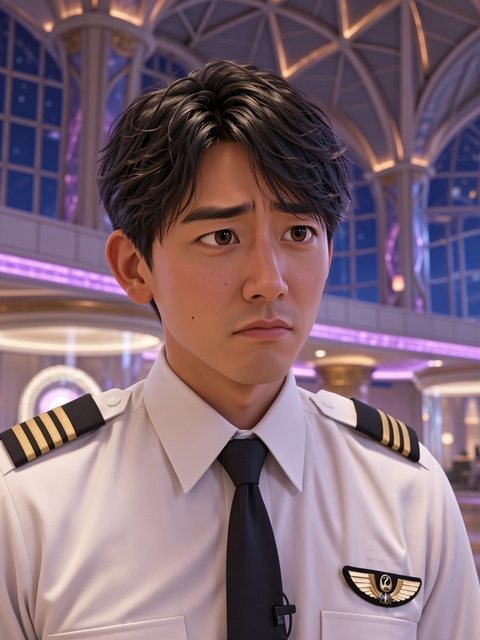
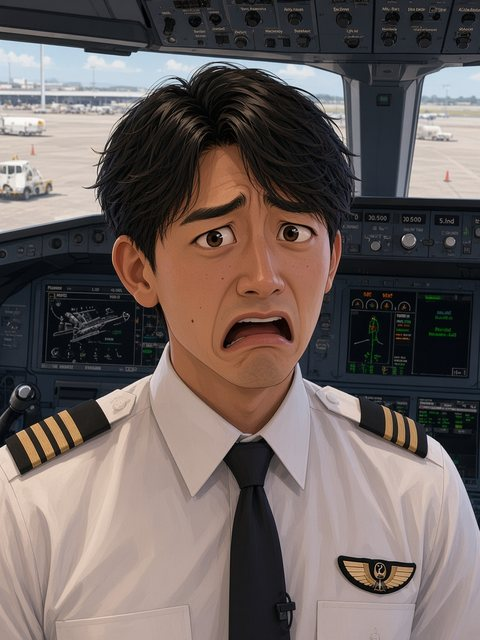
Put the how-to-play text back at the bottom and give the captain bigger cockpit reactions.

diff --git a/index.html b/index.html
@@ -1,5 +1,5 @@
 <!doctype html>
-<html lang="ja"><head><meta charset="utf-8"><meta name="viewport" content="width=device-width,initial-scale=1,maximum-scale=1,user-scalable=no,viewport-fit=cover"><meta name="theme-color" content="#101c27"><title>わたしはマーシャラー</title><link rel="preload" as="image" href="title-marshaller.jpg?v=20261107f"><link rel="stylesheet" href="style.css?v=20261107f"></head>
+<html lang="ja"><head><meta charset="utf-8"><meta name="viewport" content="width=device-width,initial-scale=1,maximum-scale=1,user-scalable=no,viewport-fit=cover"><meta name="theme-color" content="#101c27"><title>わたしはマーシャラー</title><link rel="preload" as="image" href="title-marshaller.jpg?v=20261107g"><link rel="stylesheet" href="style.css?v=20261107g"></head>
 <body>
 <div id="viewport-shell" aria-hidden="true"></div>
 <div id="scene"></div><div class="vignette"></div>
@@ -12,8 +12,8 @@
 <div id="signal-note"><span></span><strong>待機</strong><small>慣性に注意して、ゆっくり誘導</small></div>
 <footer id="controls"><div class="control-caption">機長への誘導信号 <span>押し続けて合図 · 停止は1回で保持</span></div><div class="buttons" role="group" aria-label="誘導信号"><button data-signal="left" aria-label="左へ" aria-pressed="false"><kbd>A / ←</kbd><span>↗</span>左へ<small>機体の左</small></button><button data-signal="forward" aria-label="前進" aria-pressed="false"><kbd>W / ↑</kbd><span>↑↑</span>前進<small>ゆっくり接近</small></button><button data-signal="slow" aria-label="遅らせ" aria-pressed="false"><kbd>S / ↓</kbd><span>↓↓</span>遅らせ<small>速度を落とす</small></button><button data-signal="right" aria-label="右へ" aria-pressed="false"><kbd>D / →</kbd><span>↖</span>右へ<small>機体の右</small></button><button data-signal="stop" aria-label="止まれ" aria-pressed="false" class="stop"><kbd>SPACE</kbd><span>×</span>止まれ<small>停止信号を保持</small></button></div></footer>
 <button id="retry" class="retry-on-scene primary" type="button" hidden>もう一度誘導する <span>↻</span></button>
-<div id="intro" class="overlay title-screen"><img class="title-art" src="title-marshaller.jpg?v=20261107f" alt="滑走路で飛行機を背に、誘導灯を構えて立つマーシャラー"><div class="title-wash" aria-hidden="true"></div><div class="title-head"><div class="eyebrow">地上誘導シミュレーター / 東京国際空港 · 第12スポット</div><h1>わたしは<br><em>マーシャラー</em></h1><p class="intro-sub">その一振りで、空の巨体を止める。</p></div><section class="panel title-panel"><div class="rule-grid"><div><b>01</b><p>機首輪を中心線に合わせる。<small>左右はパイロットから見た方向です。</small></p></div><div><b>02</b><p>A350の停止線を見極める。<small>判定基準は機首輪。機体先端ではありません。</small></p></div><div><b>03</b><p>止まる、少し前に「止まれ」。<small>反応まで0.35秒。重い機体はすぐに止まりません。</small></p></div></div><button id="start" class="primary">誘導を始める <span>→</span></button><p class="fine">キーボード / タッチ対応 · 音声あり · 約1分の訓練</p><div id="load-error" hidden></div></section></div>
+<div id="intro" class="overlay title-screen"><img class="title-art" src="title-marshaller.jpg?v=20261107g" alt="滑走路で飛行機を背に、誘導灯を構えて立つマーシャラー"><div class="title-wash" aria-hidden="true"></div><div class="title-head"><h1>わたしは<br><em>マーシャラー</em></h1></div><section class="panel title-panel"><div class="eyebrow">地上誘導シミュレーター / 東京国際空港 · 第12スポット</div><p class="intro-sub">その一振りで、空の巨体を止める。</p><div class="rule-grid"><div><b>01</b><p>機首輪を中心線に合わせる。<small>左右はパイロットから見た方向です。</small></p></div><div><b>02</b><p>A350の停止線を見極める。<small>判定基準は機首輪。機体先端ではありません。</small></p></div><div><b>03</b><p>止まる、少し前に「止まれ」。<small>反応まで0.35秒。重い機体はすぐに止まりません。</small></p></div></div><button id="start" class="primary">誘導を始める <span>→</span></button><p class="fine">キーボード / タッチ対応 · 音声あり · 約1分の訓練</p><div id="load-error" hidden></div></section></div>
 <div id="result" class="overlay" hidden><section class="panel result-panel"><div class="eyebrow">誘導完了 / 第12スポット</div><figure id="pilot-react" class="pilot-react"><img id="pilot-react-img" alt="" width="96" height="96"></figure><div id="grade">ピタリ！</div><p id="result-copy"></p><div class="result-stats"><div><small>停止線との差</small><strong id="result-long"></strong></div><div><small>中心線との差</small><strong id="result-lat"></strong></div></div><p id="result-tip"></p><button id="close-result" class="ghost" type="button">閉じる</button><p class="fine">＋は行き過ぎ / −は手前</p></section></div>
 <div id="loading">駐機場を準備しています…</div>
-<script src="three.min.js"></script><script src="game.js?v=20261107f"></script>
+<script src="three.min.js"></script><script src="game.js?v=20261107g"></script>
 </body></html>

diff --git a/game.js b/game.js
@@ -251,7 +251,7 @@ function finish(danger=false){if(mode!=='playing')return;mode='result';state.spe
  else if(err>1.7){grade='行き過ぎ';copy='停止位置を通過してしまいました。';tip='制動距離と0.35秒の反応遅れを見越して、少し早めに停止信号を。';}
  else if(err< -1.7){grade='早すぎ';copy='目標停止位置まで距離が残っています。';tip='速度が低いと制動距離も短くなります。次はもう少し近づいてから合図を。';}
  else{grade='もう少し';copy='停止できましたが、中心線から外れています。';tip='左右の合図は早めに、短く。曲がり始めたら合図を戻して様子を見ましょう。';}
- const pleased=!danger&&(grade==='ピタリ！'||grade==='優秀'||grade==='良好');const react=$('pilot-react-img');react.src=pleased?'pilot-good.jpg?v=20261107f':'pilot-bad.jpg?v=20261107f';react.alt=pleased?'満足そうな機長':'残念がる機長';$('pilot-react').classList.toggle('good',pleased);$('pilot-react').classList.toggle('bad',!pleased);$('grade').textContent=grade;$('grade').style.color=danger?'#ff967e':'#ffc676';$('result-copy').textContent=copy;$('result-long').textContent=`${err>=0?'+':''}${err.toFixed(2)} m`;$('result-lat').textContent=`${nose.x>=0?'+':''}${nose.x.toFixed(2)} m`;$('result-tip').textContent=tip;setTimeout(()=>{if(mode==='result')$('result').hidden=false;},800);
+ const pleased=!danger&&(grade==='ピタリ！'||grade==='優秀'||grade==='良好');const react=$('pilot-react-img');react.src=pleased?'pilot-good.jpg?v=20261107g':'pilot-bad.jpg?v=20261107g';react.alt=pleased?'満足そうな機長':'残念がる機長';$('pilot-react').classList.toggle('good',pleased);$('pilot-react').classList.toggle('bad',!pleased);$('grade').textContent=grade;$('grade').style.color=danger?'#ff967e':'#ffc676';$('result-copy').textContent=copy;$('result-long').textContent=`${err>=0?'+':''}${err.toFixed(2)} m`;$('result-lat').textContent=`${nose.x>=0?'+':''}${nose.x.toFixed(2)} m`;$('result-tip').textContent=tip;setTimeout(()=>{if(mode==='result')$('result').hidden=false;},800);
 }
 function physics(dt){elapsed+=dt;hintTime+=dt;while(commands.length&&commands[0].at<=elapsed)pilotSignal=commands.shift().signal;
  const desiredSteer=pilotSignal==='left'?.34:pilotSignal==='right'?-.34:0;

diff --git a/style.css b/style.css
@@ -132,3 +132,9 @@ button{touch-action:none;-webkit-user-select:none;user-select:none}
  #intro .title-head .intro-sub{font-size:10px}
  .pilot-react{width:64px;height:64px;margin:8px auto 0}
 }
+#intro .title-head{padding-bottom:0}
+#intro .title-panel .intro-sub{margin:12px 0 0;font-size:13px;color:#ecd7b3;letter-spacing:.12em}
+#intro .title-panel .eyebrow{margin:0}
+@media(max-width:900px),(pointer:coarse){
+ #intro .title-panel .intro-sub{font-size:12px;margin-top:10px}
+}
